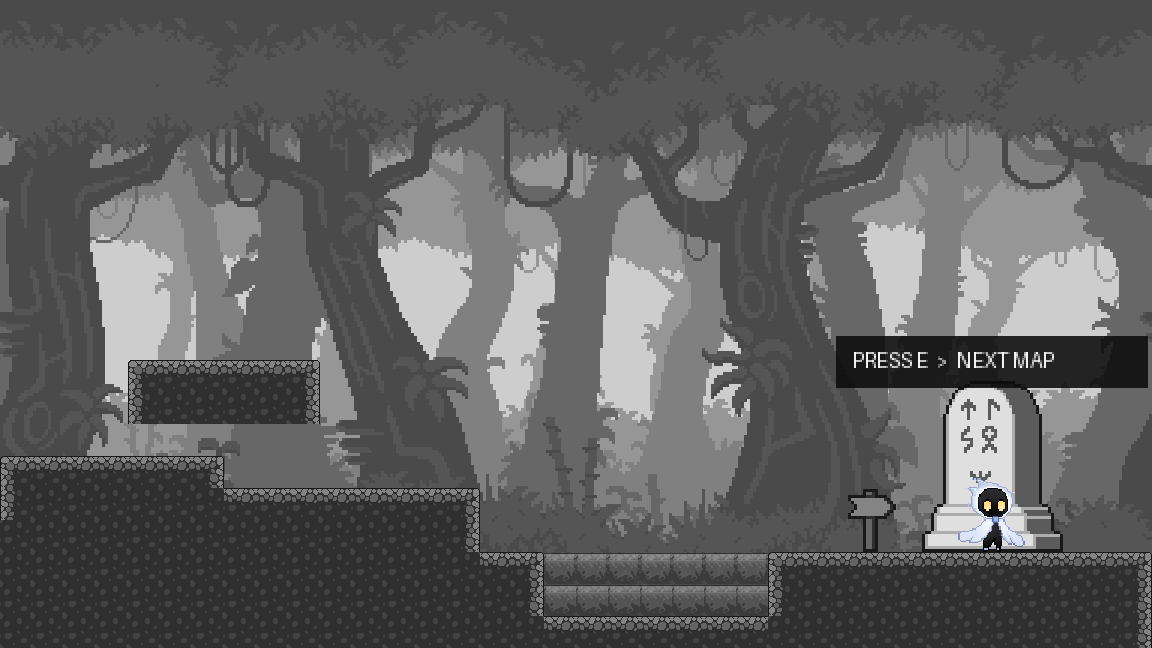
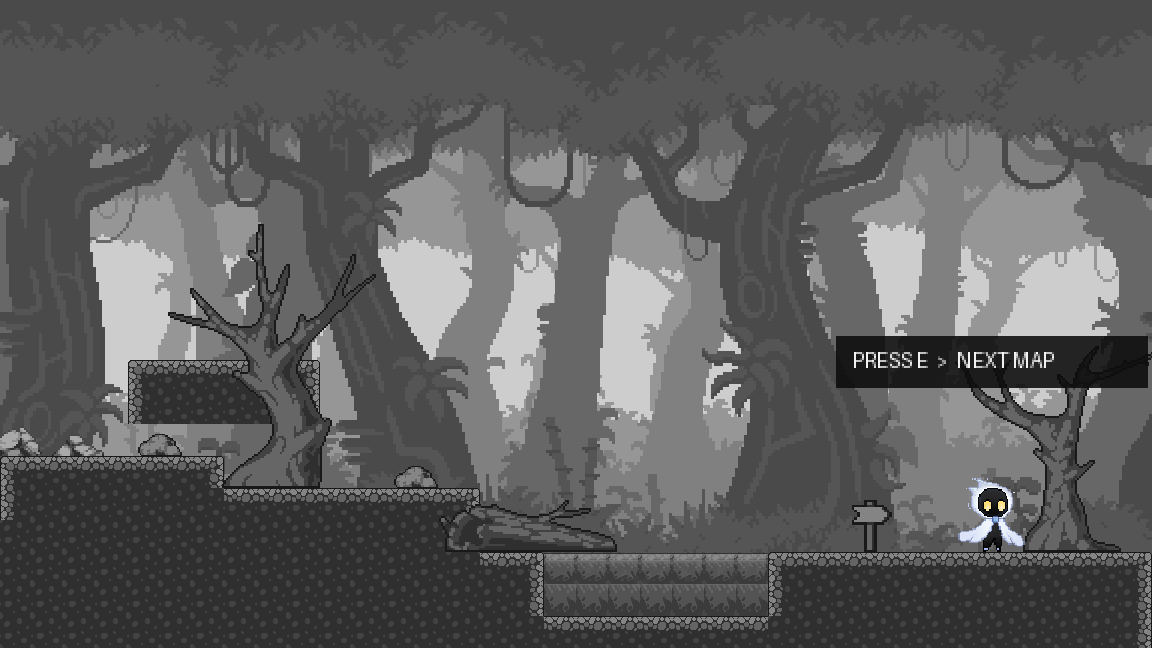
숲 자연물과 늪지 유적 자산으로 폐허 사원 장식 구분

diff --git a/code/level.py b/code/level.py
@@ -45,7 +45,7 @@ class Level:
             else:
                 self.platforms.append(Platform(a * 32, 0, b * 32, h * 32))
         # Optional higher ledges provide a second route over parts of the path.
-        ledges = ([(8, 14, 6), (88, 94, 9)], [(8, 13, 6), (98, 103, 6)])
+        ledges = ([(8, 14, 6), (88, 94, 9)], [(8, 13, 6), (98, 103, 8)])
         self.platforms += [Platform(a * 32, (h - 2) * 32, b * 32, h * 32)
                            for a, b, h in ledges[self.index]]
         self.width = 120 * TILE_SIZE
@@ -54,15 +54,23 @@ class Level:
         self.exit_y = 96
         # Decorations are anchored to the actual surface, away from jump lips.
         self.objects = []
-        kinds = ("Willows/1", "Bushes/7", "Stones/4", "Trees/2",
-                 "Grass/3", "Ridges/1", "Bushes/3", "Stones/3")
-        for i, platform in enumerate(self.platforms[:12]):
-            self.objects.append((kinds[(i + self.index * 3) % len(kinds)],
-                                 platform.left + 80, platform.top, 2.0))
-            if platform.right - platform.left > 240:
-                self.objects.append(("Grass/2", platform.right - 96, platform.top, 2.0))
-        self.objects += [("Pointers/1", self.exit_x - 120, 96, 3.0),
-                         ("Stones/2", self.exit_x, 96, 3.0)]
+        if self.index == 0:
+            kinds = ("Willows/1", "Rock/low", "Trees/2", "Ridges/1",
+                     "Rock/moss", "Willows/2", "Rock/low", "Trees/3")
+        else:
+            kinds = ("Swamp/pillar", "Swamp/monolith", "Ruins/statue",
+                     "Swamp/broken_pillar", "Swamp/rubble", "Stones/1")
+        # Use the original dry banks, rather than anchoring props inside pools.
+        for i, (a, b, h) in enumerate(routes[self.index]):
+            kind = kinds[i % len(kinds)]
+            scale = 2.0 if self.index == 0 else (1.4 if kind == "Swamp/monolith" else 2.5)
+            self.objects.append((kind, (a + 2) * 32 - 16, h * 32, scale))
+            if i not in (4, 8, 11) and b - a >= 7:
+                self.objects.append(("Bushes/3" if self.index == 0 else "Rock/low",
+                                     (b - 2) * 32, h * 32, 1.5))
+        self.objects += [("Pointers/1", self.exit_x - 120, 96, 2.5)]
+        self.objects.append(("Trees/1" if self.index == 0 else "Swamp/monolith",
+                             self.exit_x + 64, 96, 2.0 if self.index == 0 else 1.4))
 
     def can_exit(self, player):
         return (player.grounded and abs(player.x - self.exit_x) <= 80

diff --git a/code/background.py b/code/background.py
@@ -3,6 +3,7 @@ import math
 import pico2d
 
 from .level import Level
+from .scenery import SWAMP_ATLAS, SWAMP_PROPS
 from .settings import IMAGE_ROOT, SCREEN_HEIGHT, SCREEN_WIDTH, TILE_SIZE
 
 
@@ -23,7 +24,8 @@ class Background:
         for i in (10, 20, 30):
             self.tiles[i].opacify(0.55)
         self.objects = {name: pico2d.load_image(str(scenery / "objects" / f"{name}.png"))
-                        for name, *_ in self.level.objects}
+                        for name, *_ in self.level.objects if name not in SWAMP_PROPS}
+        self.swamp = pico2d.load_image(str(SWAMP_ATLAS)) if self.level.index == 1 else None
         self.prompt = pico2d.load_image(str(scenery / "press_e.png"))
 
     def draw(self, camera_x):
@@ -38,6 +40,13 @@ class Background:
             if first <= col < last:
                 self.tiles[tile].draw(col * 32 + 16 - round(camera_x), row * 32 + 16, 32, 32)
         for name, x, y, scale in self.level.objects:
+            if name in SWAMP_PROPS:
+                sx, sy, sw, sh = SWAMP_PROPS[name]
+                w, h = sw * scale, sh * scale
+                if -w < x - camera_x < SCREEN_WIDTH + w:
+                    self.swamp.clip_draw(sx, self.swamp.h - sy - sh, sw, sh,
+                                         round(x - camera_x), y + h / 2, w, h)
+                continue
             obj = self.objects[name]
             w, h = obj.w * scale, obj.h * scale
             if -w < x - camera_x < SCREEN_WIDTH + w:
@@ -49,7 +58,11 @@ class Background:
             for x in range(pool.left, pool.right, 32):
                 if -32 <= x - camera_x <= SCREEN_WIDTH:
                     for y in range(pool.bottom, pool.top, 32):
-                        self.tiles[10 if y == pool.top - 32 else 20].draw(
-                            x + 16 - round(camera_x), y + 16, 32, 32)
+                        if y == pool.top - 32:
+                            self.tiles[10].draw(x + 16 - round(camera_x), y + 16, 32, 32)
+                        else:
+                            # Sample below the foam so submerged rows have no extra surface.
+                            self.tiles[20].clip_draw(0, 0, 32, 22,
+                                                    x + 16 - round(camera_x), y + 16, 32, 32)
         if self.level.can_exit(player):
             self.prompt.draw(round(self.level.exit_x - camera_x), self.level.exit_y + 190)

diff --git a/tools/make_grayscale.py b/tools/make_grayscale.py
@@ -26,6 +26,8 @@ def main():
     sources.extend((root / "character" / state / f"{state}_blue.png",
                     OUTPUT_ROOT / "character" / f"{state}.png")
                    for state in ("idle", "run"))
+    gandalf = root / "object" / "GandalfHardcore FREE Platformer Assets" / "GandalfHardcore FREE Platformer Assets"
+    sources.append((gandalf / "Angel Statue.png", OUTPUT_ROOT / "objects" / "Ruins" / "statue.png"))
     for source, destination in sources:
         with Image.open(source) as original:
             rgba = original.convert("RGBA")
@@ -34,6 +36,14 @@ def main():
             destination.parent.mkdir(parents=True, exist_ok=True)
             grayscale.save(destination)
         print(f"Generated: {destination.relative_to(BACKGROUND_ROOT)}")
+    with Image.open(gandalf / "Decor.png") as decor:
+        for name, box in (("low", (32, 176, 96, 192)), ("moss", (0, 272, 96, 320))):
+            rock = decor.convert("RGBA").crop(box)
+            gray = ImageOps.grayscale(rock).convert("RGBA")
+            gray.putalpha(rock.getchannel("A"))
+            folder = OUTPUT_ROOT / "objects" / "Rock"
+            folder.mkdir(parents=True, exist_ok=True)
+            gray.save(folder / f"{name}.png")
     for name, text in (("press_e", "PRESS E  >  NEXT MAP"),
                        ("grove", "01 / SILENT GROVE"),
                        ("temple", "02 / FORGOTTEN TEMPLE"),

diff --git a/tools/preview_levels.py b/tools/preview_levels.py
@@ -37,6 +37,9 @@ class Sprite:
         self.draw(cx, cy, dw, dh)
         self.image = original
 
+    def clip_draw(self, x, y, w, h, cx, cy, dw, dh):
+        self.clip_composite_draw(x, y, w, h, 0, "", cx, cy, dw, dh)
+
 
 def main():
     global canvas
@@ -48,10 +51,14 @@ def main():
             background = Background(level)
             player = Player(level)
             player.enter_level(level)
-            for label, camera in (("start", 0), ("middle", 1100), ("exit", level.width - 1152)):
+            for label, camera in (("start", 0), ("middle", 1100), ("water", 2200), ("exit", level.width - 1152)):
                 canvas = Image.new("RGB", (1152, 648))
                 if label == "exit":
                     player.x, player.y = level.exit_x, level.exit_y + player.DRAW_SIZE / 2
+                elif label == "water":
+                    pool = level.water[1]
+                    player.x = (pool.left + pool.right) / 2
+                    player.y = pool.bottom + player.DRAW_SIZE / 2
                 background.draw(camera)
                 player.draw(camera)
                 background.draw_overlay(camera, player)

diff --git a/code/scenery.py b/code/scenery.py
@@ -1,0 +1,14 @@
+"""Top-left atlas regions, sampled directly without changing the Swamp assets."""
+from .settings import IMAGE_ROOT
+
+
+SWAMP_ATLAS = (IMAGE_ROOT / "background" / "tile" /
+               "forest-nature-fantasy-tileset-free" / "Fantasy Swamp Forest" /
+               "Free" / "Terrain_and_Props.png")
+
+SWAMP_PROPS = {
+    "Swamp/pillar": (0, 288, 32, 64),
+    "Swamp/broken_pillar": (32, 288, 32, 64),
+    "Swamp/monolith": (96, 256, 176, 96),
+    "Swamp/rubble": (0, 352, 48, 32),
+}
